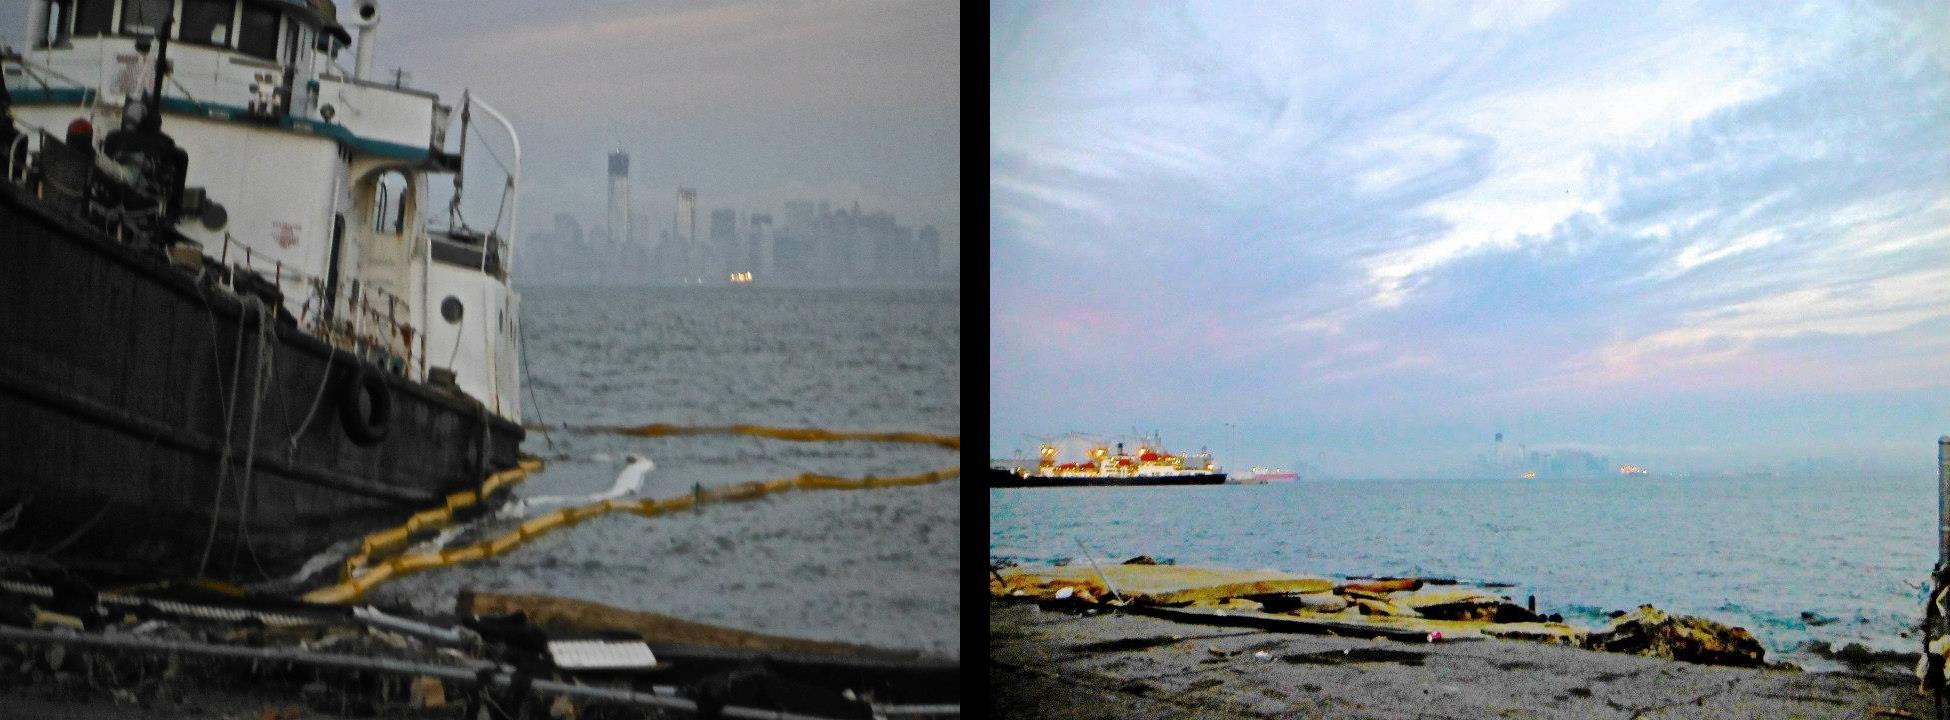
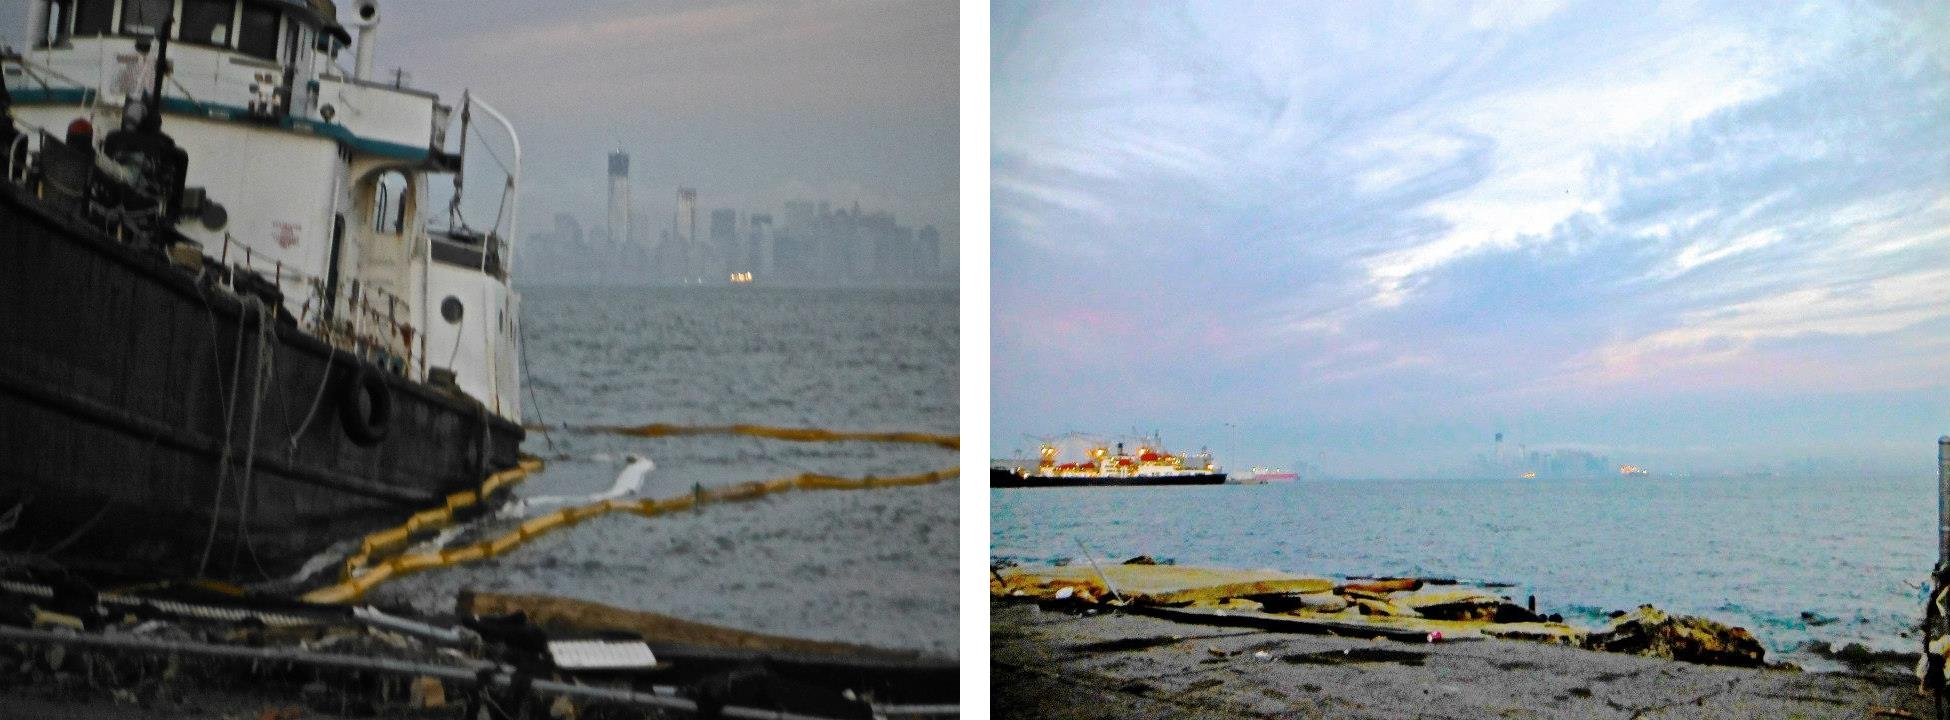
color change

Changed region(s): [[0.4923, 0.0, 0.5231, 1.0]]

diff --git a/createSelectTask.py b/createSelectTask.py
@@ -29,7 +29,7 @@ def merge(imgs,newimg):
 
     w += (len(images) -1) * band_size
 
-    result = Image.new("RGBA", (w, mh))
+    result = Image.new("RGBA", (w, mh),"white")
 
     x = 0
     for i in out_images:
